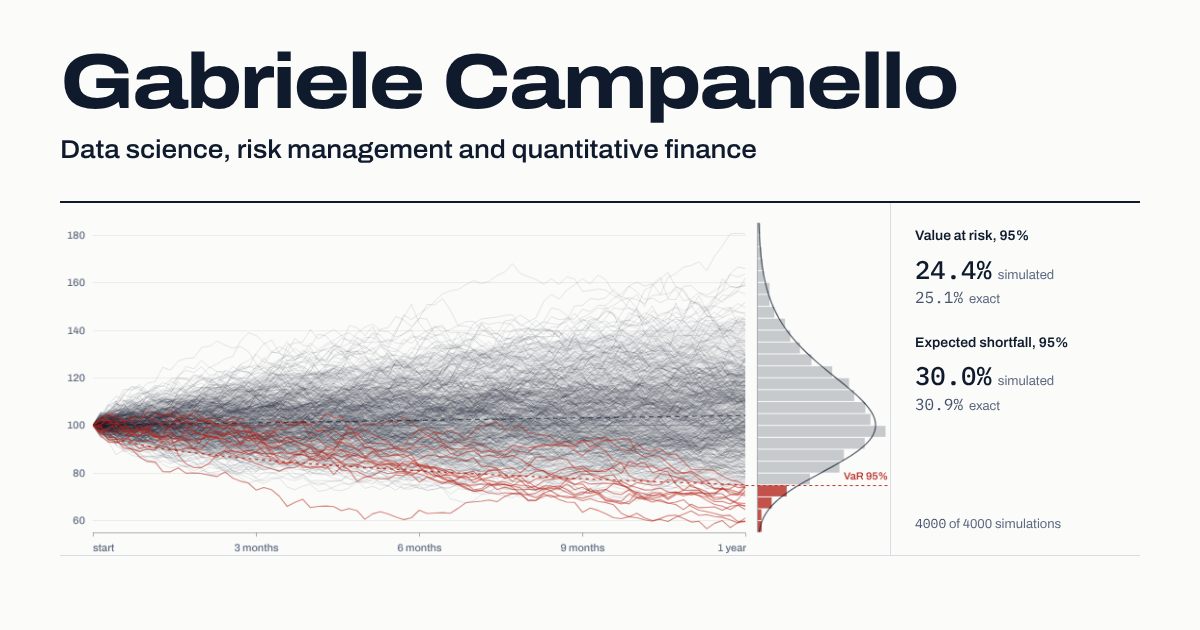
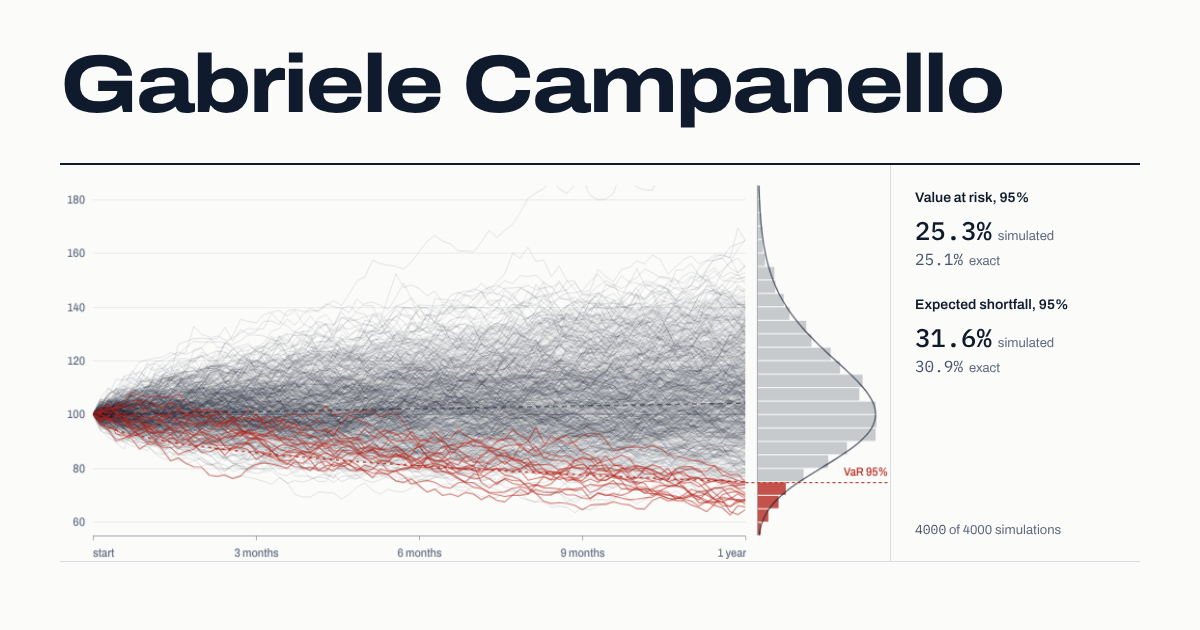
Tolto il sottotitolo sotto il nome
Aggiornata anche l'immagine di anteprima og.png.

Claude-Session: https://claude.ai/code/session_01HssW1MPaefvKQ8Ud3Bjb3M

diff --git a/index.html b/index.html
@@ -95,16 +95,6 @@
     margin: 0 0 24px;
   }
 
-  .role {
-    font-size: clamp(1.15rem, 2.2vw, 1.5rem);
-    font-weight: 560;
-    font-stretch: 106%;
-    line-height: 1.3;
-    letter-spacing: -0.005em;
-    margin: 0 0 16px;
-    max-width: 32em;
-  }
-
   .lede {
     font-size: 1.125rem;
     line-height: 1.6;
@@ -455,7 +445,6 @@
   <header class="hero">
     <div class="wrap">
       <h1 class="name">Gabriele Campanello</h1>
-      <p class="role">Data science, risk management and quantitative finance</p>
       <p class="lede">
         I model randomness in code: Monte Carlo simulation, exact probability calculations and
         statistical tests on real data. I hold an MSc in Physics from the University of Milan
